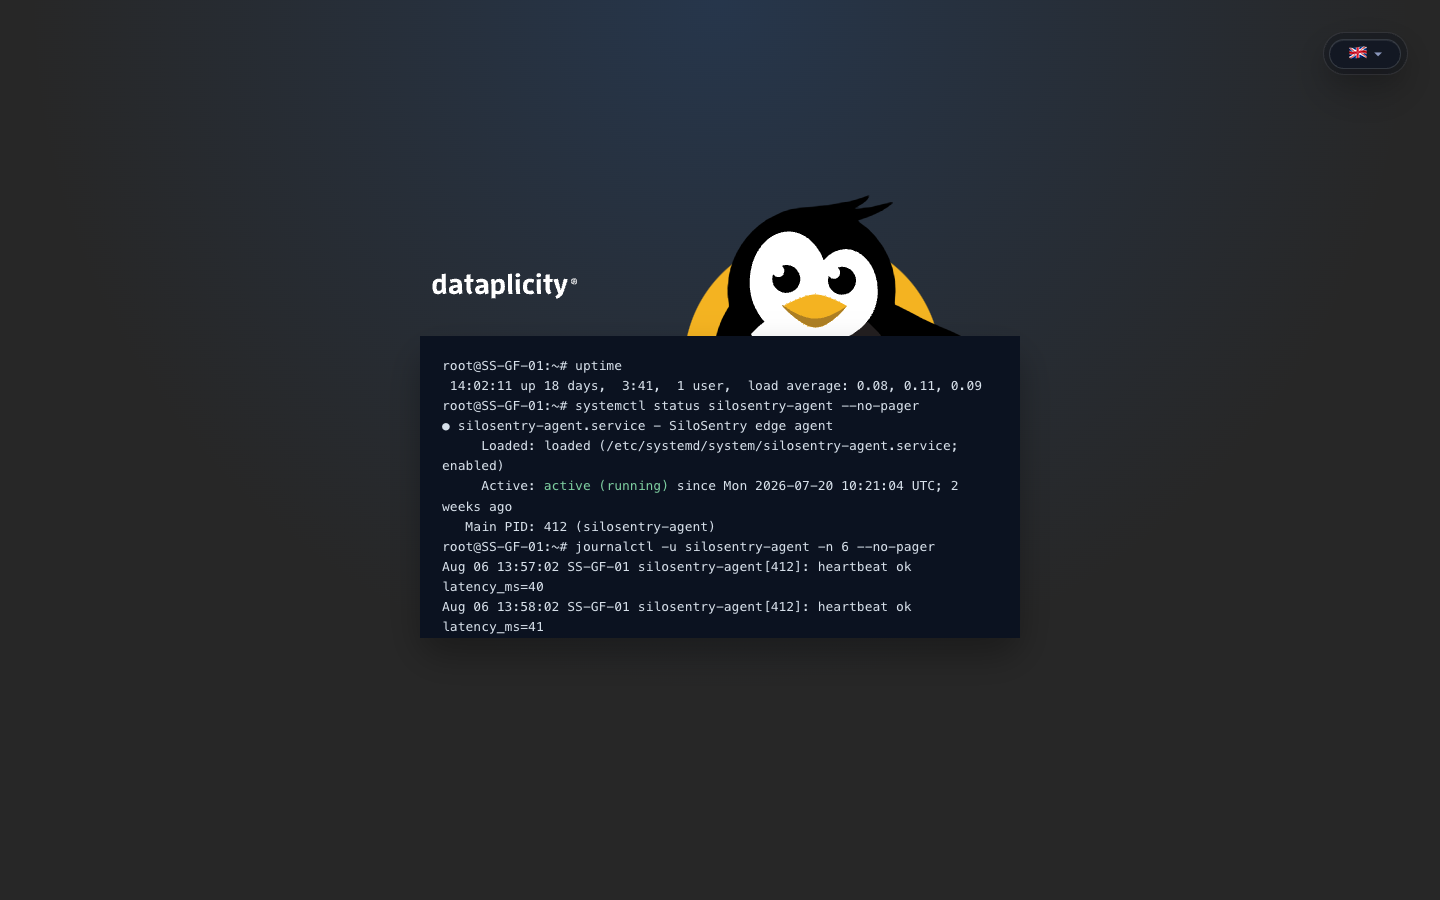
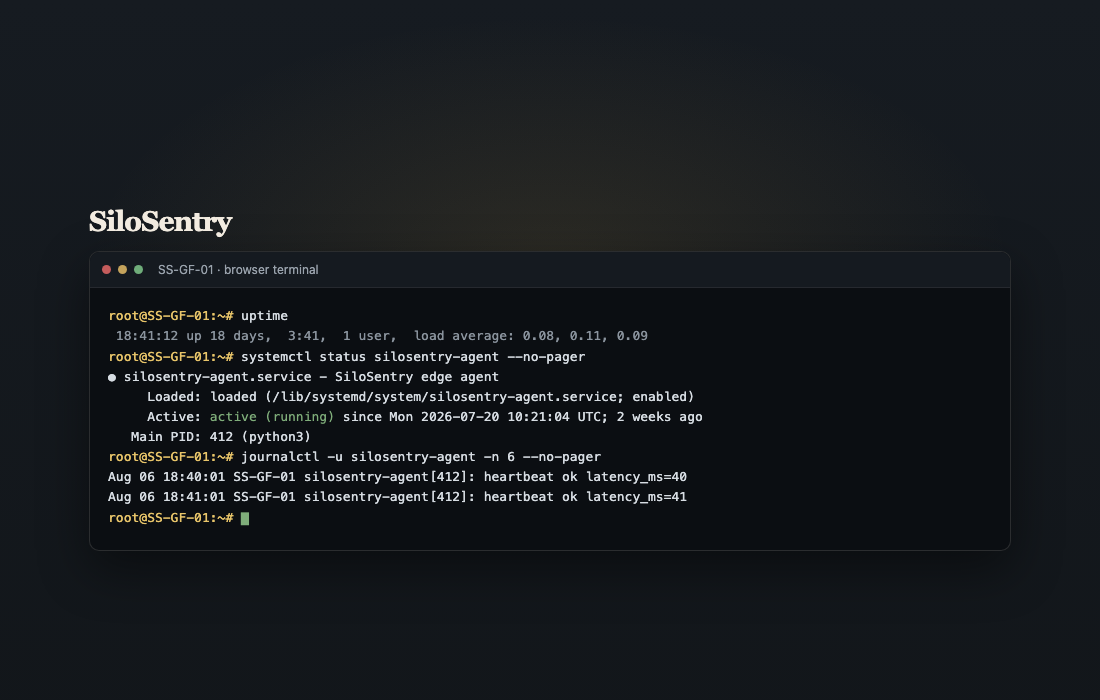
Polish SiloSentry marketing site: brand mark, fleet monitors, tighter shots.
Replace the top-left Dataplicity wordmark with a SiloSentry mark, add a fleet-monitors beat, tighten feature-row layout, and refresh ops/device/terminal screenshots without on-call remnants or Pingüino chrome.

diff --git a/index.html b/index.html
@@ -28,18 +28,18 @@
     <a class="skip" href="#main">Skip to content</a>
 
     <header class="top">
-      <a class="mark mark--dp" href="https://www.dataplicity.com/" rel="noopener">
-        Dataplicity
+      <a class="mark mark--ss-brand" href="#top" aria-label="SiloSentry example home">
+        <span class="mark__glyph" aria-hidden="true"></span>
+        <span class="mark__word">SiloSentry</span>
       </a>
-      <span class="top__divider" aria-hidden="true"></span>
-      <a class="mark mark--ss" href="#top">SiloSentry example</a>
+      <span class="top__tag">Illustrative OEM</span>
       <nav class="nav" aria-label="Primary">
         <a href="#orient">Orientation</a>
         <a href="#devices">Devices</a>
         <a href="#company">Company ops</a>
         <a href="#day">A day</a>
       </nav>
-      <a class="top__dp" href="https://www.dataplicity.com/" rel="noopener">dataplicity.com</a>
+      <a class="top__dp" href="https://www.dataplicity.com/" rel="noopener">On Dataplicity</a>
     </header>
 
     <main id="main">
@@ -196,7 +196,7 @@
             <h3>A monitoring wall fed by your devices</h3>
             <p>
               Not a generic KPI collage. SiloSentry’s “Plains elevators” display is built from
-              their Dataplicity fleet and monitors: check-ins, heartbeats, and open incidents.
+              their Dataplicity fleet: check-ins, heartbeats, and open incidents.
             </p>
           </div>
           <figure class="shot beat__shot">
@@ -206,6 +206,21 @@
         </article>
 
         <article class="beat beat--reverse">
+          <div class="beat__copy">
+            <p class="beat__label">Fleet monitors</p>
+            <h3>Watch the fleet, not one box at a time</h3>
+            <p>
+              “Any Probe GW offline,” “too many Site Gateways dark,” rules SiloSentry would keep
+              on the same devices that show up in the list and on the wall.
+            </p>
+          </div>
+          <figure class="shot beat__shot">
+            <img src="screenshots/38-fleet-monitors.png" alt="SiloSentry fleet monitors" loading="lazy" />
+            <figcaption>Fleet monitors for the SiloSentry org.</figcaption>
+          </figure>
+        </article>
+
+        <article class="beat">
           <div class="beat__copy">
             <p class="beat__label">Incidents</p>
             <h3>Page people about things that already exist here</h3>
@@ -220,7 +235,7 @@
           </figure>
         </article>
 
-        <article class="beat">
+        <article class="beat beat--reverse">
           <div class="beat__copy">
             <p class="beat__label">On-call</p>
             <h3>Who gets woken</h3>
@@ -235,7 +250,7 @@
           </figure>
         </article>
 
-        <article class="beat beat--reverse">
+        <article class="beat">
           <div class="beat__copy">
             <p class="beat__label">Fleet progression</p>
             <h3>Online isn’t always “healthy”</h3>
@@ -254,7 +269,7 @@
           </figure>
         </article>
 
-        <article class="beat">
+        <article class="beat beat--reverse">
           <div class="beat__copy">
             <p class="beat__label">Fixes at scale</p>
             <h3>Run a command across many gateways</h3>

diff --git a/styles.css b/styles.css
@@ -107,6 +107,41 @@ html {
   letter-spacing: -0.02em;
 }
 
+.mark--ss-brand {
+  color: var(--ink);
+  gap: 0.65rem;
+}
+
+.mark--ss-brand:hover {
+  color: var(--straw);
+}
+
+.mark__word {
+  font-family: var(--display);
+  font-weight: 700;
+  font-size: 1.2rem;
+  letter-spacing: -0.03em;
+}
+
+.top__tag {
+  display: none;
+  font-size: 0.72rem;
+  font-weight: 600;
+  letter-spacing: 0.1em;
+  text-transform: uppercase;
+  color: var(--ink-dim);
+  border: 1px solid var(--line);
+  padding: 0.28rem 0.55rem;
+  border-radius: 999px;
+  white-space: nowrap;
+}
+
+@media (min-width: 720px) {
+  .top__tag {
+    display: inline-flex;
+  }
+}
+
 .mark--dp {
   color: var(--straw);
 }
@@ -134,6 +169,7 @@ html {
   border: 2px solid var(--straw);
   border-radius: 0.2rem 0.2rem 0 0;
   position: relative;
+  flex-shrink: 0;
 }
 
 .mark__glyph::after {
@@ -786,16 +822,16 @@ body.lightbox-open {
 /* Narrative beat: copy + one supporting shot */
 .beat {
   display: grid;
-  gap: 1.5rem;
-  margin-top: 2.75rem;
+  gap: 1rem;
+  margin-top: 1.75rem;
   align-items: start;
 }
 
 @media (min-width: 900px) {
   .beat {
-    grid-template-columns: minmax(0, 0.95fr) minmax(0, 1.15fr);
-    gap: 2rem;
-    align-items: center;
+    grid-template-columns: minmax(0, 0.78fr) minmax(0, 1.32fr);
+    gap: 1.15rem 1.35rem;
+    align-items: start;
   }
 
   .beat--reverse .beat__copy {
@@ -804,6 +840,21 @@ body.lightbox-open {
 
   .beat--reverse .beat__shot {
     order: 1;
+  }
+
+  /* Device + terminal pair: denser composition */
+  #devices .beat {
+    grid-template-columns: minmax(0, 0.72fr) minmax(0, 1.38fr);
+    gap: 1rem 1.15rem;
+    margin-top: 1.35rem;
+  }
+
+  #devices .beat__copy {
+    padding-top: 0.35rem;
+  }
+
+  #devices .beat__copy > p {
+    max-width: 28rem;
   }
 }
 
